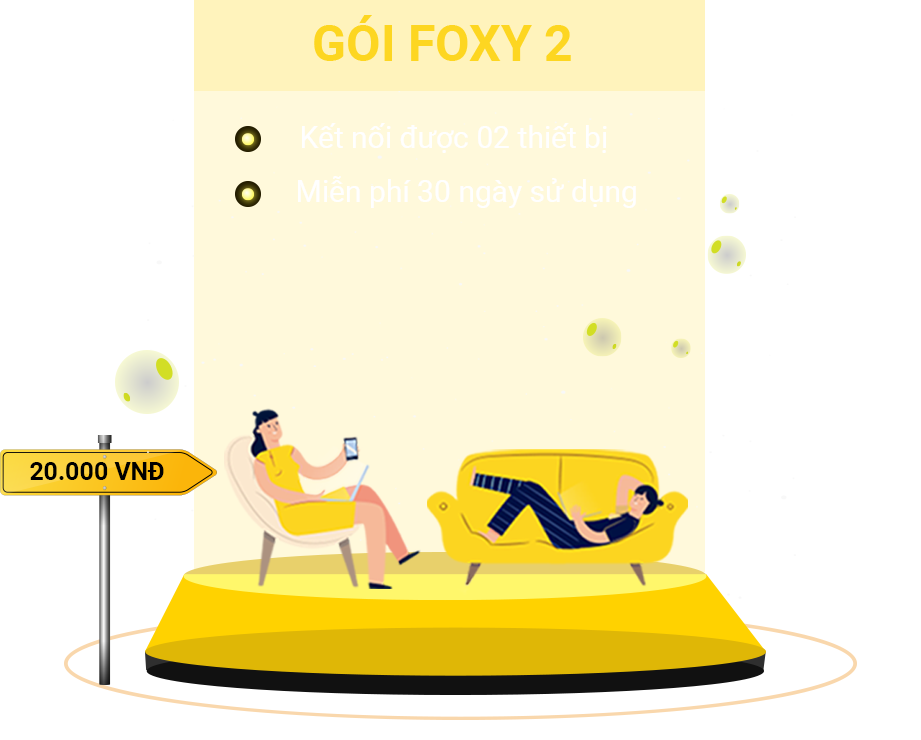
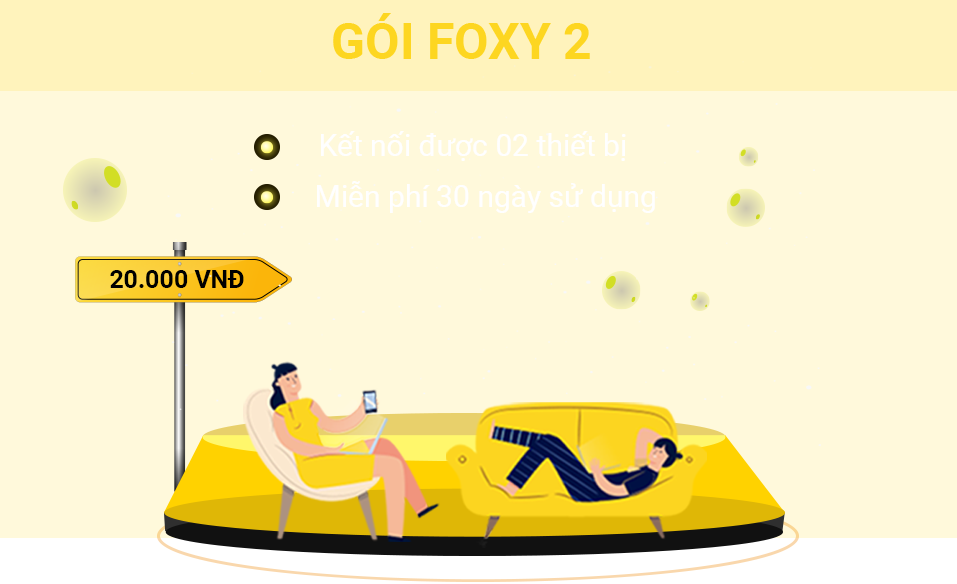
Update Foxy

diff --git a/Foxy/css/common.less b/Foxy/css/common.less
@@ -856,7 +856,7 @@ option {
 		.content{line-height: 24px;font-size: 20px;min-width: 90px;}
 	}
 	.row_bg_top{
-		img{max-height: 380px}
+		img{max-height: 330px}
 	}
 }
 

diff --git a/Foxy/css/common.css b/Foxy/css/common.css
@@ -2199,7 +2199,7 @@ option {
     min-width: 90px;
   }
   .row_bg_top img {
-    max-height: 380px;
+    max-height: 330px;
   }
 }
 @media (max-width: 320px) {
